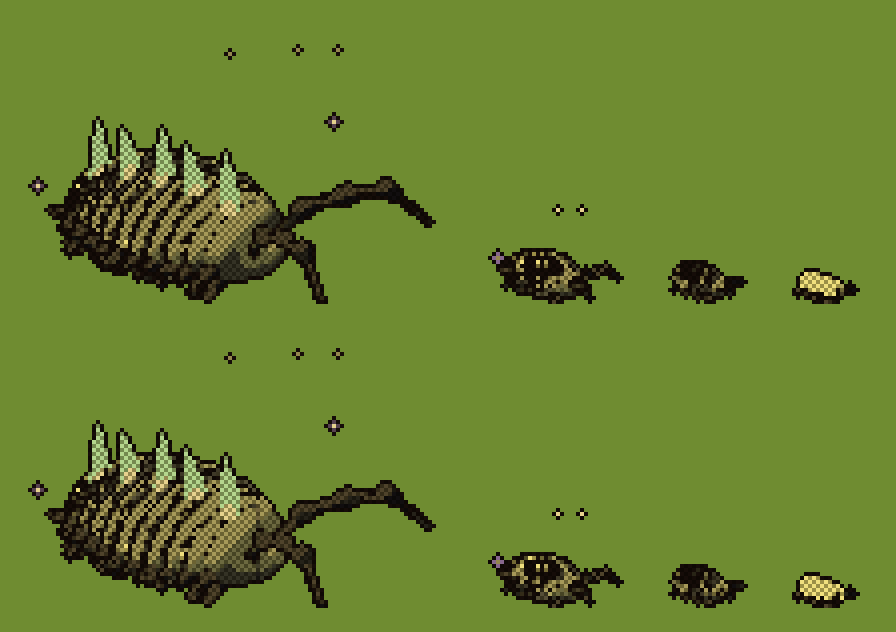
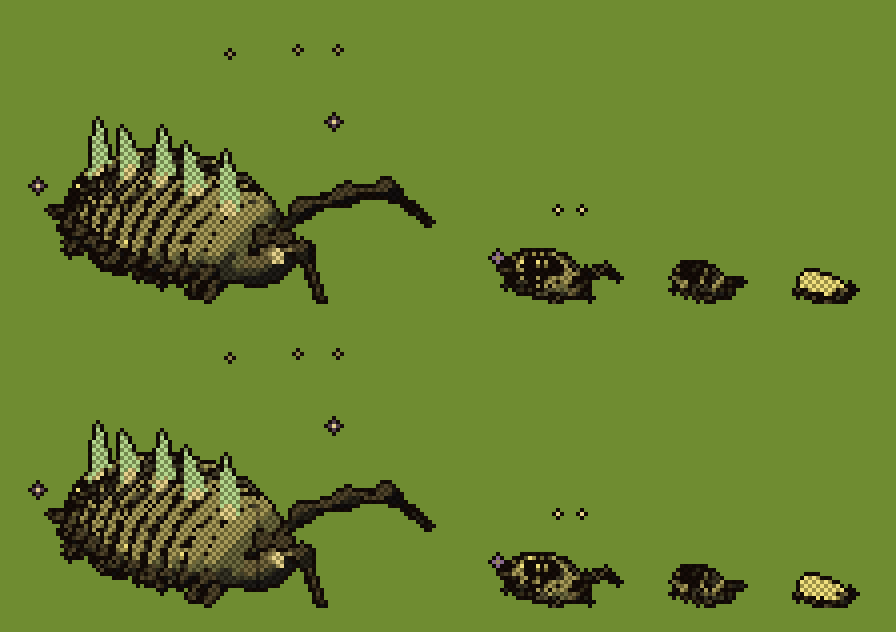
Woodlouse: a head in front of its plates, so its face shows
The art check's expressions and woken eyes: the evolved woodlouse's eyes sat
inside its plates. They sit on a head of their own now.

Claude-Session: https://claude.ai/code/session_01CCJ1G3QaUxYK9jSu9176NM

diff --git a/art/creatures3d.js b/art/creatures3d.js
@@ -655,7 +655,8 @@ export function woodlouse3d(S, level, frame, st, facing = "towards") {
     if (q.leaves && i % 3 === 0) m.flat(v3.add(c, [-w * .3, r[1] * .8, (i % 2 ? 1 : -1) * r[2] * .5]), v3.norm([1, .2, 0]), v3.norm([0, .5, i % 2 ? 1 : -1]), .07, .045, (a, b) => a * a + b * b * 1.6 < 1 ? (Math.abs(b) < .12 ? M.TRUNK : M.ACCENT) : null, { group: 90 + i, extra: true }); // a dry leaf caught in its plates
   }
   if (q.tailSpikes) for (const side of [-1, 1]) m.seg([-.55, .12, side * .08], [-.75, .08, side * .14], .03, .006, M.BODY3, { group: 4, extra: true });
-  eyesOn(m, [.42, .17, 0], [.14, .12, .2], [[.92, .3, .45], [.92, .3, -.45]], .022, legend ? M.MAGIC2 : M.EYE);
+  const hc = [.58, .15, 0], hr = [.12, .1, .17]; m.ell(hc, hr, M.BODY2, { group: 1 }); // its head, in front of the plates
+  eyesOn(m, hc, hr, [[.8, .45, .45], [.8, .45, -.45]], .026, legend ? M.MAGIC2 : M.EYE);
   return finish(m, S, level, st, .4, facing);
 }
 
